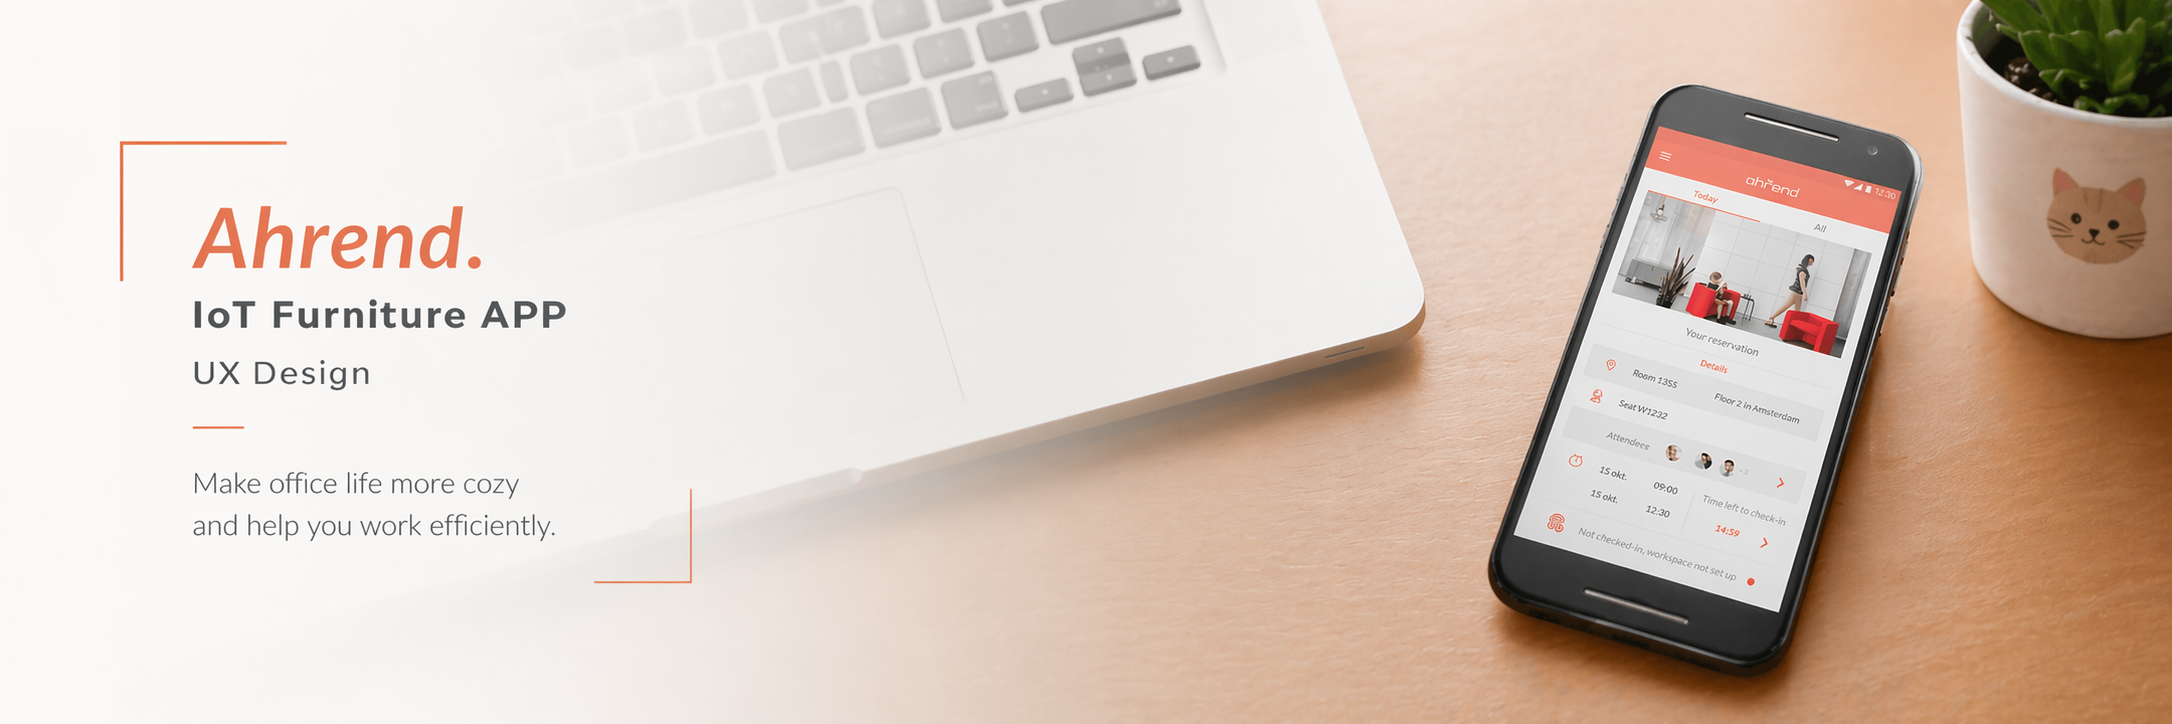
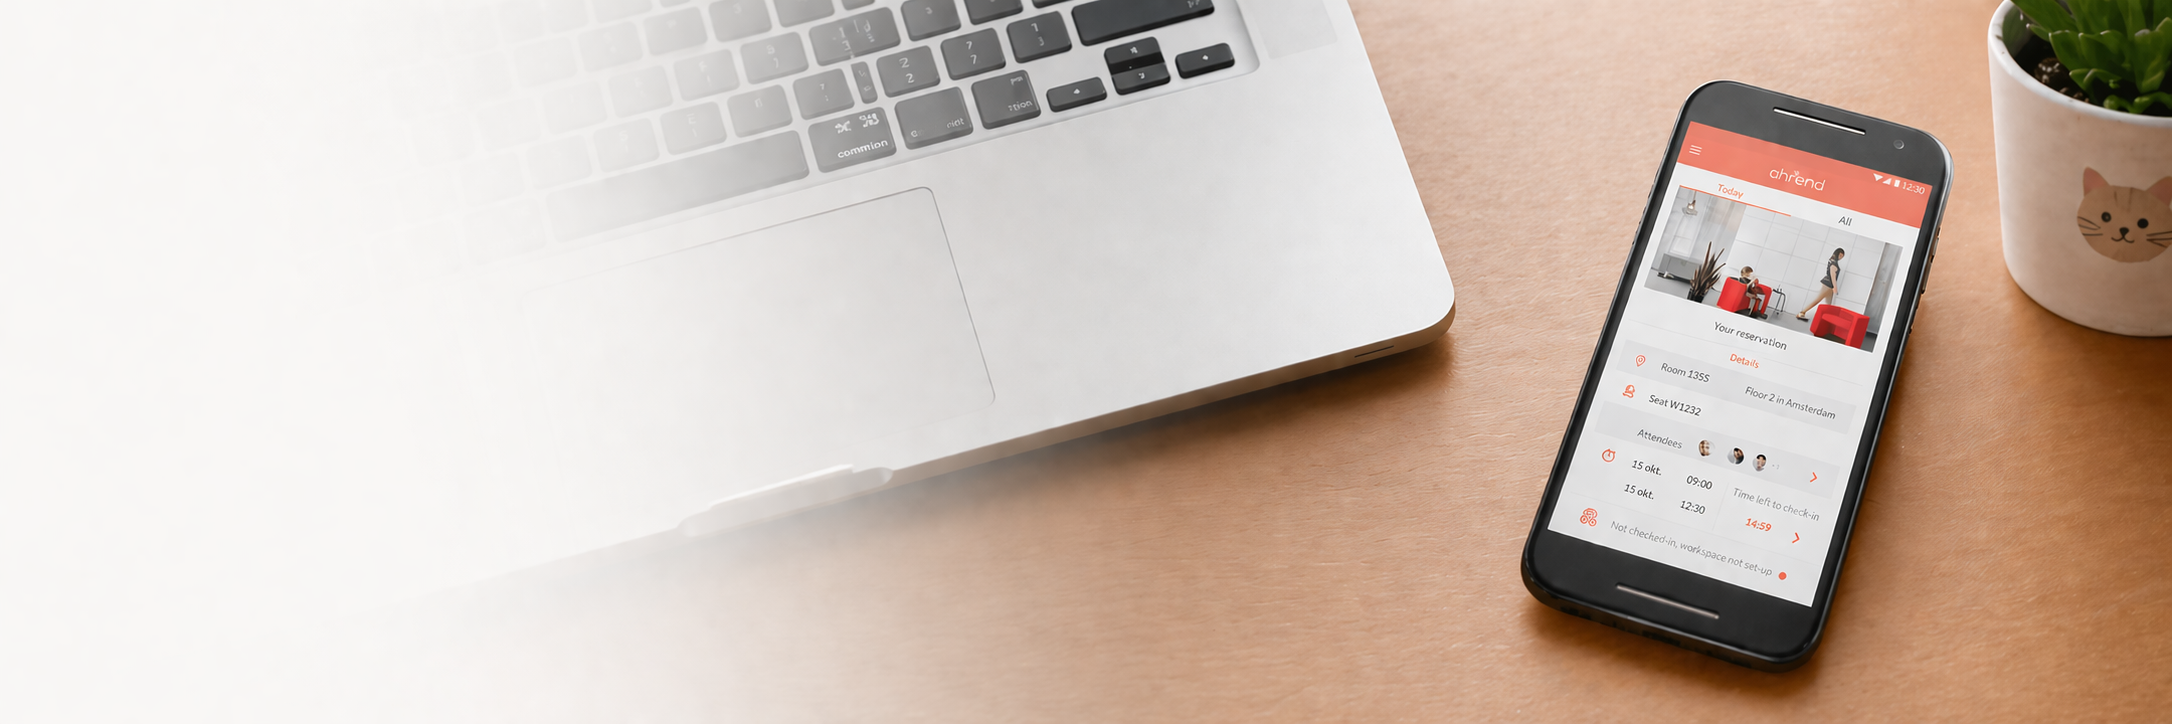
fix: iOS emoji rendering, mobile star, Ahrend hero & thumbnail polish
- Force text variation selector on ✳ and ✦ symbols to prevent iOS emoji rendering
- Show spinning star on mobile (was hidden sm:block)
- Add coverImagePosition field; set Ahrend hero to object-right crop
- Add sizes="100vw" to cover image for sharp rendering
- Switch Ahrend thumbnail to Ahrend_1.png to reduce aliasing

diff --git a/components/SideProjects.tsx b/components/SideProjects.tsx
@@ -13,7 +13,7 @@ export default function SideProjects() {
         viewport={{ once: true, margin: "-40px" }}
         transition={{ duration: 0.5, ease: [0.25, 0.46, 0.45, 0.94] }}
       >
-        <span className="font-display font-700 text-base text-blue leading-none">✳</span>
+        <span className="font-display font-700 text-base text-blue leading-none">{"✳"}</span>
         <h2 className="font-display font-700 text-sm tracking-widest uppercase">
           Side Projects
         </h2>
@@ -36,7 +36,7 @@ export default function SideProjects() {
               ease: [0.25, 0.46, 0.45, 0.94],
             }}
           >
-            <span className="font-display font-700 text-3xl text-blue/20">✳</span>
+            <span className="font-display font-700 text-3xl text-blue/20">{"✳"}</span>
             <span className="font-sans text-xs text-ink/40">Vibe coding experiment</span>
           </motion.div>
         ))}

diff --git a/components/Hero.tsx b/components/Hero.tsx
@@ -84,14 +84,14 @@ export default function Hero() {
 
         {/* Decorative marks — positioned over the name block area */}
         {/* Yellow ✦ star — sits over the "NN" in PENNY */}
-        <Mark className="hidden sm:block top-[6%] left-[28%]" delay={0.85} rotation={15}>
+        <Mark className="block top-[4%] left-[52%] sm:top-[6%] sm:left-[28%]" delay={0.85} rotation={15}>
           <motion.span
             className="text-yellow font-display font-700 text-3xl sm:text-5xl leading-none drop-shadow-[0_0_0_#0A0A0A] block"
             style={{ WebkitTextStroke: "1.5px #0A0A0A" }}
             animate={{ rotate: reduceMotion ? 0 : 360 }}
             transition={{ repeat: reduceMotion ? 0 : Infinity, duration: 5, ease: "linear" }}
           >
-            ✦
+            {"✦"}
           </motion.span>
         </Mark>
 

diff --git a/data/projects.ts b/data/projects.ts
@@ -14,6 +14,7 @@ export type Project = {
   outcome: string;
   client?: string;
   coverImage?: string;
+  coverImagePosition?: string;
   thumbnailImage?: string;
   processImages?: string[];
   processBackground?: string;
@@ -132,8 +133,9 @@ export const projects: Project[] = [
     year: "2022",
     behanceUrl: "https://www.behance.net/gallery/190835123/Ahrend",
     accentColor: "#0A0A0A",
-    coverImage: "/images/Ahrend/Ahrend_1.png",
-    thumbnailImage: "/images/Ahrend/Ahrend_thumbnail.png",
+    coverImage: "/images/Ahrend/Ahrend_hero.png",
+    coverImagePosition: "right",
+    thumbnailImage: "/images/Ahrend/Ahrend_1.png",
     processBackground: "#FAFBFC",
     processImages: [
       "/images/Ahrend/Ahrend_2.png",

diff --git a/components/ProjectCard.tsx b/components/ProjectCard.tsx
@@ -75,7 +75,7 @@ export default function ProjectCard({ project, index }: Props) {
 
               {/* Role + tools */}
               <div className="text-right shrink-0">
-                <p className="text-xs font-sans font-600 text-ink flex items-center gap-1 justify-end"><span className="text-blue text-xs">✳</span>{project.role}</p>
+                <p className="text-xs font-sans font-600 text-ink flex items-center gap-1 justify-end"><span className="text-blue text-xs">{"✳"}</span>{project.role}</p>
                 <p className="text-xs font-sans text-ink/50 mt-0.5">{project.tools.join(", ")}</p>
               </div>
             </div>

diff --git a/components/Nav.tsx b/components/Nav.tsx
@@ -17,7 +17,7 @@ export default function Nav() {
           className="flex items-center gap-1.5 group px-1"
         >
           <span className="font-display font-700 text-xl text-blue leading-none group-hover:rotate-45 transition-transform duration-200 inline-block">
-            ✳
+            {"✳"}
           </span>
           <span className="font-display font-700 text-sm tracking-widest leading-none bg-ink text-paper px-3 py-1.5 group-hover:bg-yellow group-hover:text-ink transition-colors duration-150">
             PZ

diff --git a/components/Footer.tsx b/components/Footer.tsx
@@ -4,7 +4,7 @@ export default function Footer() {
       <div className="max-w-6xl mx-auto px-6 py-12 flex flex-col sm:flex-row items-start sm:items-center justify-between gap-6">
         <div>
           <p className="font-display font-700 text-lg flex items-center gap-2">
-            <span className="text-blue">✳</span>
+            <span className="text-blue">{"✳"}</span>
             Penny Zhang
           </p>
           <p className="text-sm text-ink/60 mt-1">Product Designer · Sydney, AU</p>

diff --git a/components/FeaturedProjects.tsx b/components/FeaturedProjects.tsx
@@ -18,7 +18,7 @@ export default function FeaturedProjects() {
         viewport={{ once: true, margin: "-40px" }}
         transition={{ duration: 0.5, ease: [0.25, 0.46, 0.45, 0.94] }}
       >
-        <span className="font-display font-700 text-base text-blue leading-none">✳</span>
+        <span className="font-display font-700 text-base text-blue leading-none">{"✳"}</span>
         <h2 className="font-display font-700 text-sm tracking-widest uppercase">
           Selected Work
         </h2>

diff --git a/components/CaseStudyContent.tsx b/components/CaseStudyContent.tsx
@@ -82,7 +82,9 @@ export default function CaseStudyContent({ project }: { project: Project }) {
               src={project.coverImage}
               alt={project.title}
               fill
+              sizes="100vw"
               className="object-cover"
+              style={{ objectPosition: project.coverImagePosition ?? "center" }}
               priority
             />
           ) : (

diff --git a/components/MarqueeTape.tsx b/components/MarqueeTape.tsx
@@ -2,15 +2,15 @@
 
 const ITEMS = [
   "PRODUCT DESIGNER",
-  "✦",
+  "✦",
   "SYDNEY AU",
-  "✦",
+  "✦",
   "OPEN TO WORK",
-  "✦",
+  "✦",
   "UX & UI",
-  "✦",
+  "✦",
   "FROM RESEARCH TO PIXEL",
-  "✦",
+  "✦",
 ];
 
 // Doubled for seamless loop
